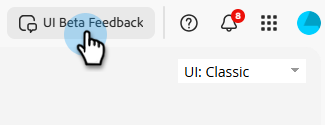
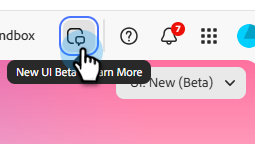
updating the new ui doc

diff --git a/help/marketo/getting-started/things-to-know/new-ui.md b/help/marketo/getting-started/things-to-know/new-ui.md
@@ -46,6 +46,6 @@ If you need to switch back for any reason, click the UI drop-down again and sele
 
 ## Submitting feedback {#feedback}
 
-We very much welcome your feedback. If you encounter any issues accessing or using the functionality while exploring the new UI, or have any suggestions or concerns, click the **UI Beta Feedback** button on the top-right.
+We very much welcome your feedback. If you encounter any issues accessing or using the functionality while exploring the new UI, or have any suggestions or concerns, click the **Learn more** button ![new ui learn more icon](assets/icon-new-ui-learn-more.png) on the top-right.
 
    ![](assets/new-ui-5.png)
